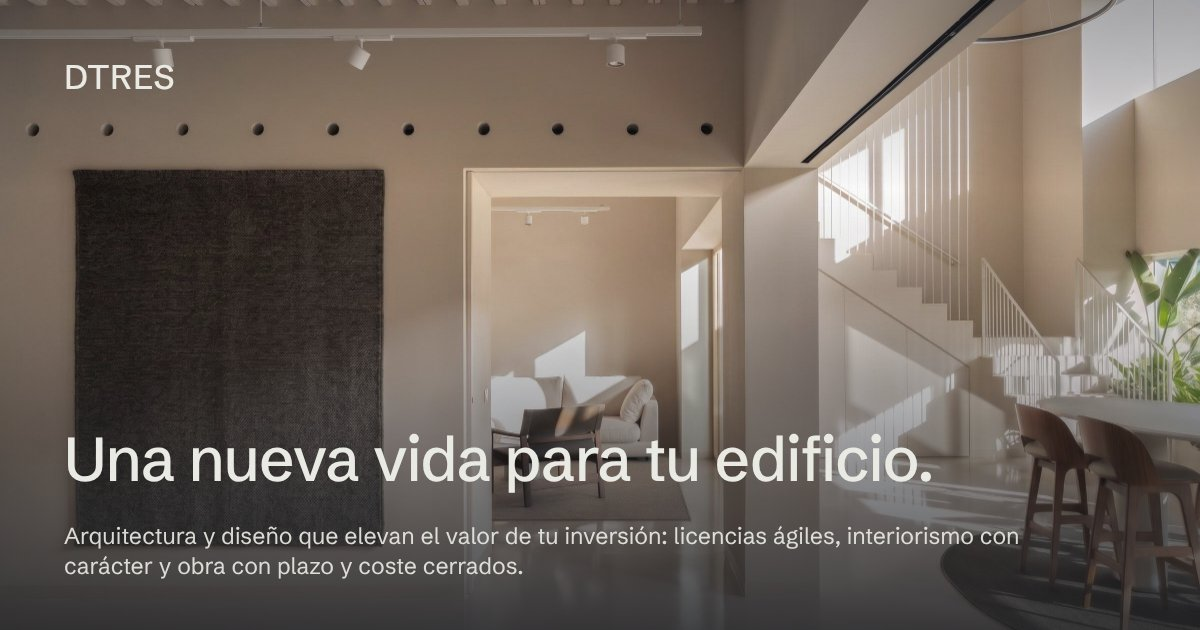
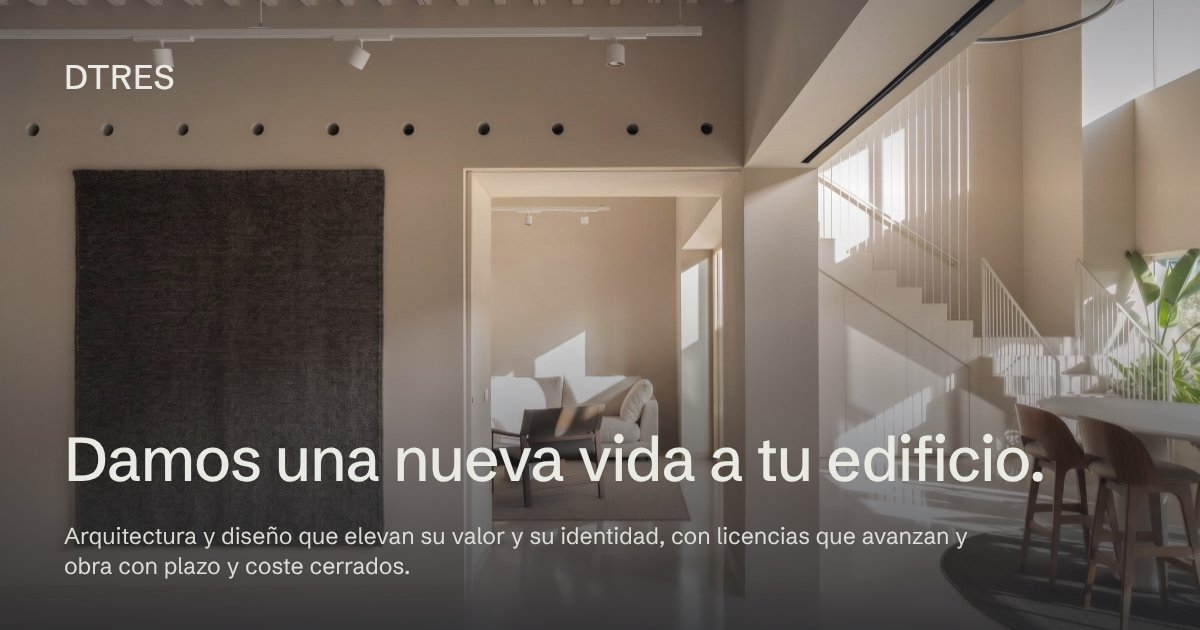
Hero: 'Damos una nueva vida a tu edificio' + subtítulo valor e identidad (pendiente de añadir certeza)
Claude-Session: https://claude.ai/code/session_01GCRyzbLymN6Pgprcy3YpCp

Changed region(s): [[0.0617, 0.6937, 0.8633, 0.7841], [0.0617, 0.8444, 0.8633, 0.9349]]

diff --git a/src/data/content.en.js b/src/data/content.en.js
@@ -11,8 +11,8 @@ export const meta = {
 
 export const hero = {
   eyebrow: 'Architecture and interior design · Barcelona and Catalonia · Since 2017',
-  title: "A new life for your building.",
-  subtitle: "Architecture and design that raise the value of your investment: fast-moving permits, distinctive interiors and construction at a fixed time and cost.",
+  title: "We give your building a new life.",
+  subtitle: "Architecture and design that raise its value and its identity, with permits that move forward and construction at a fixed time and cost.",
   image: { src: '/img/hero-papiol.jpg', alt: 'Papiol showroom and offices in Barcelona, with a double-height space and staircase' },
 };
 

diff --git a/src/data/content.ca.js b/src/data/content.ca.js
@@ -11,8 +11,8 @@ export const meta = {
 
 export const hero = {
   eyebrow: 'Arquitectura i interiorisme · Barcelona i Catalunya · Des de 2017',
-  title: "Una nova vida per al teu edifici.",
-  subtitle: "Arquitectura i disseny que eleven el valor de la teva inversió: llicències àgils, interiorisme amb caràcter i obra amb termini i cost tancats.",
+  title: "Donem una nova vida al teu edifici.",
+  subtitle: "Arquitectura i disseny que n'eleven el valor i la identitat, amb llicències que avancen i obra amb termini i cost tancats.",
   image: { src: '/img/hero-papiol.jpg', alt: 'Showroom i oficines de Papiol a Barcelona, amb doble alçada i escala' },
 };
 

diff --git a/src/data/content.js b/src/data/content.js
@@ -22,8 +22,8 @@ export const meta = {
 
 export const hero = {
   eyebrow: 'Arquitectura e interiorismo · Barcelona y Catalunya · Desde 2017',
-  title: "Una nueva vida para tu edificio.",
-  subtitle: "Arquitectura y diseño que elevan el valor de tu inversión: licencias ágiles, interiorismo con carácter y obra con plazo y coste cerrados.",
+  title: "Damos una nueva vida a tu edificio.",
+  subtitle: "Arquitectura y diseño que elevan su valor y su identidad, con licencias que avanzan y obra con plazo y coste cerrados.",
   image: { src: '/img/hero-papiol.jpg', alt: 'Showroom y oficinas de Papiol en Barcelona, con doble altura y escalera' },
 };
 
